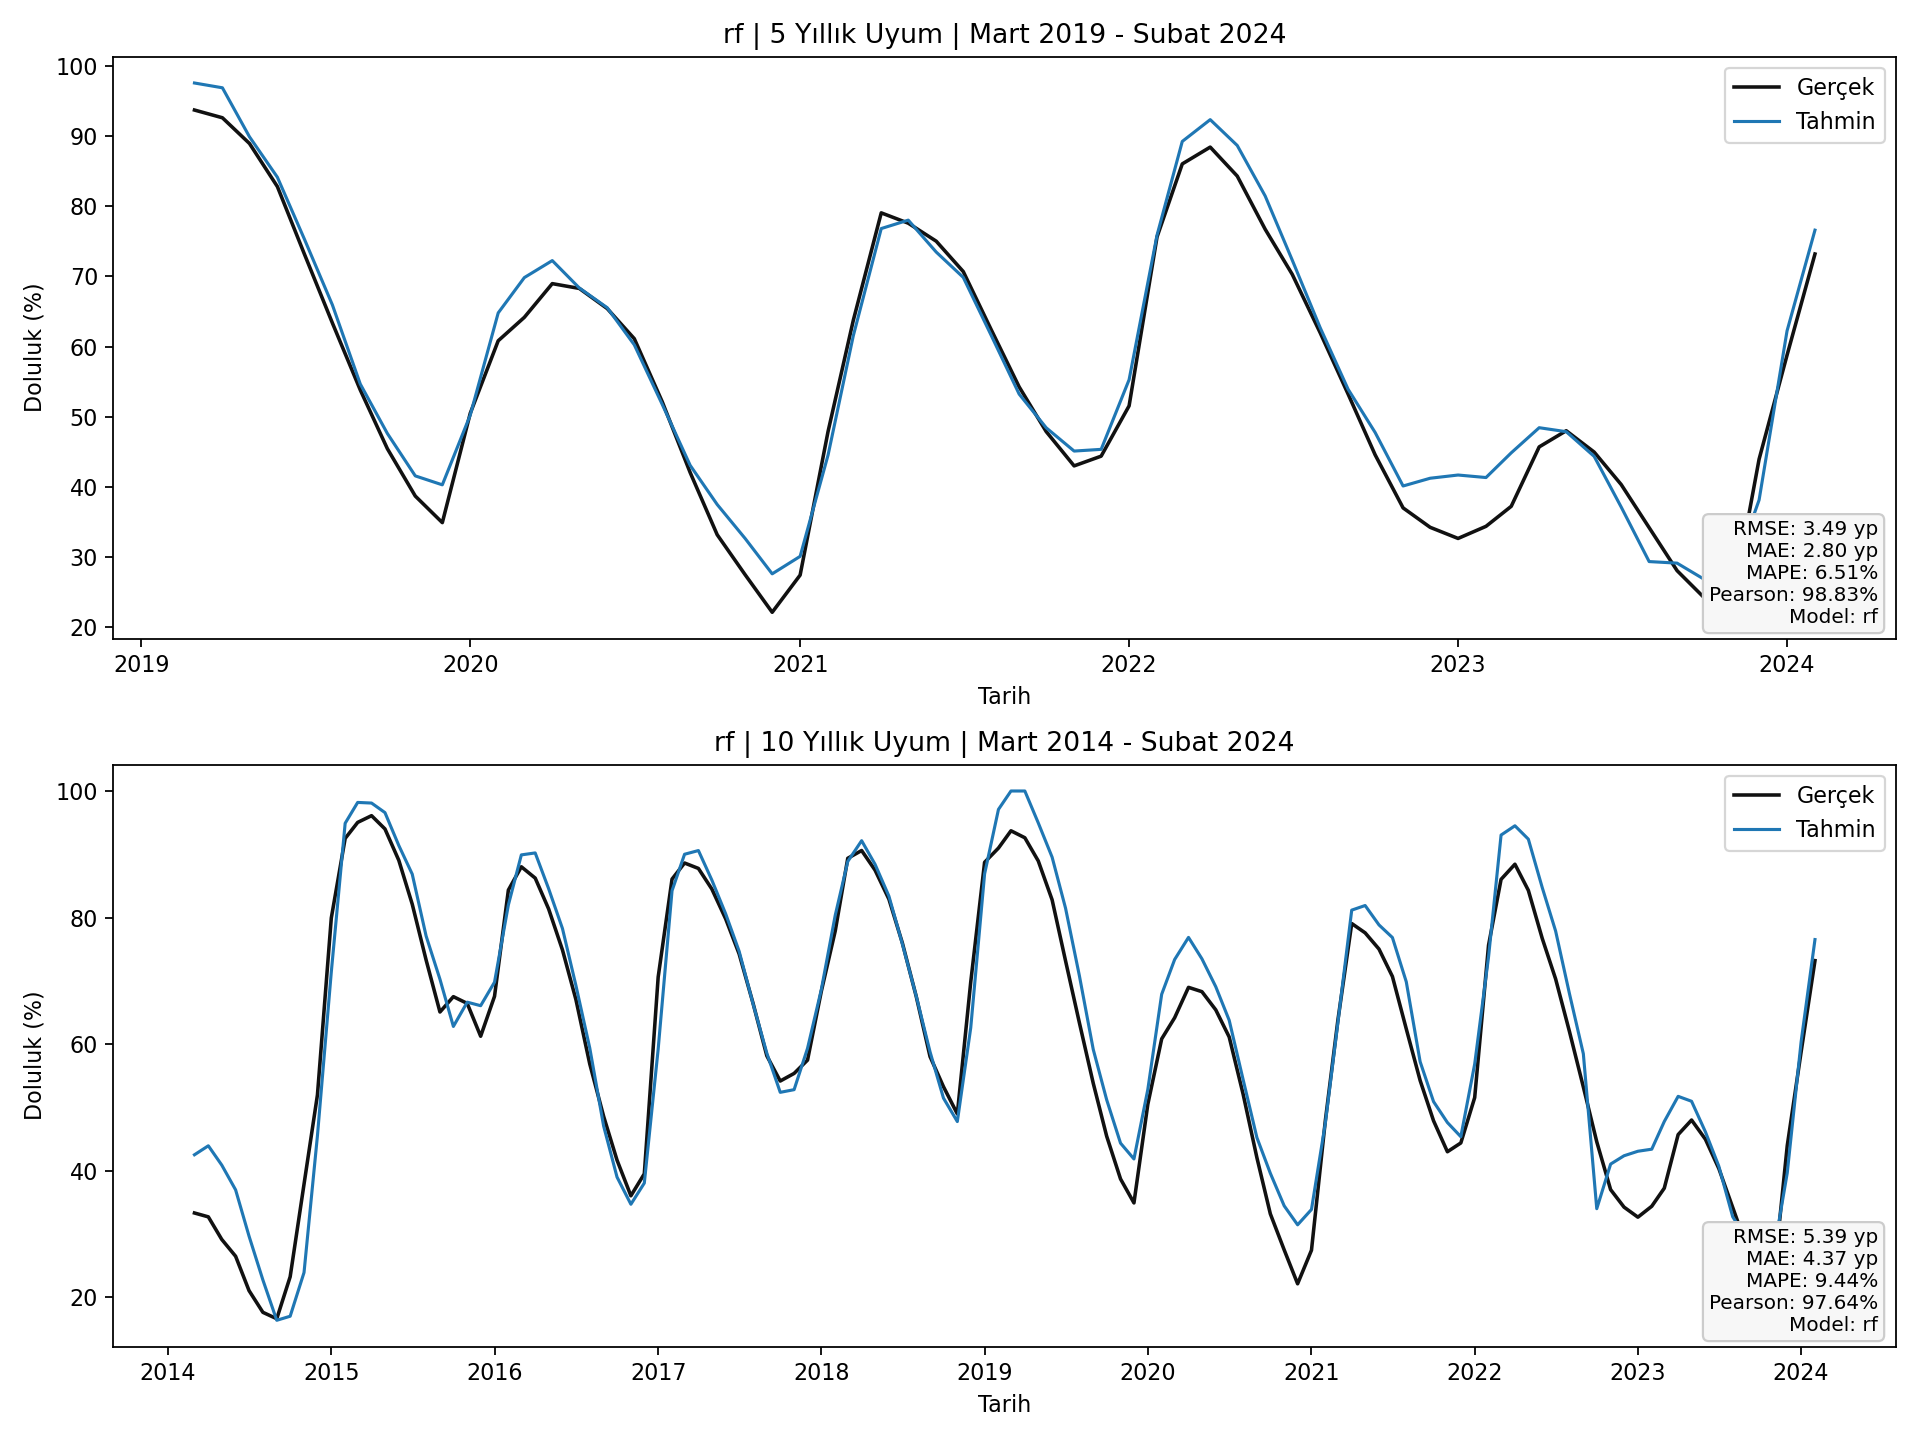
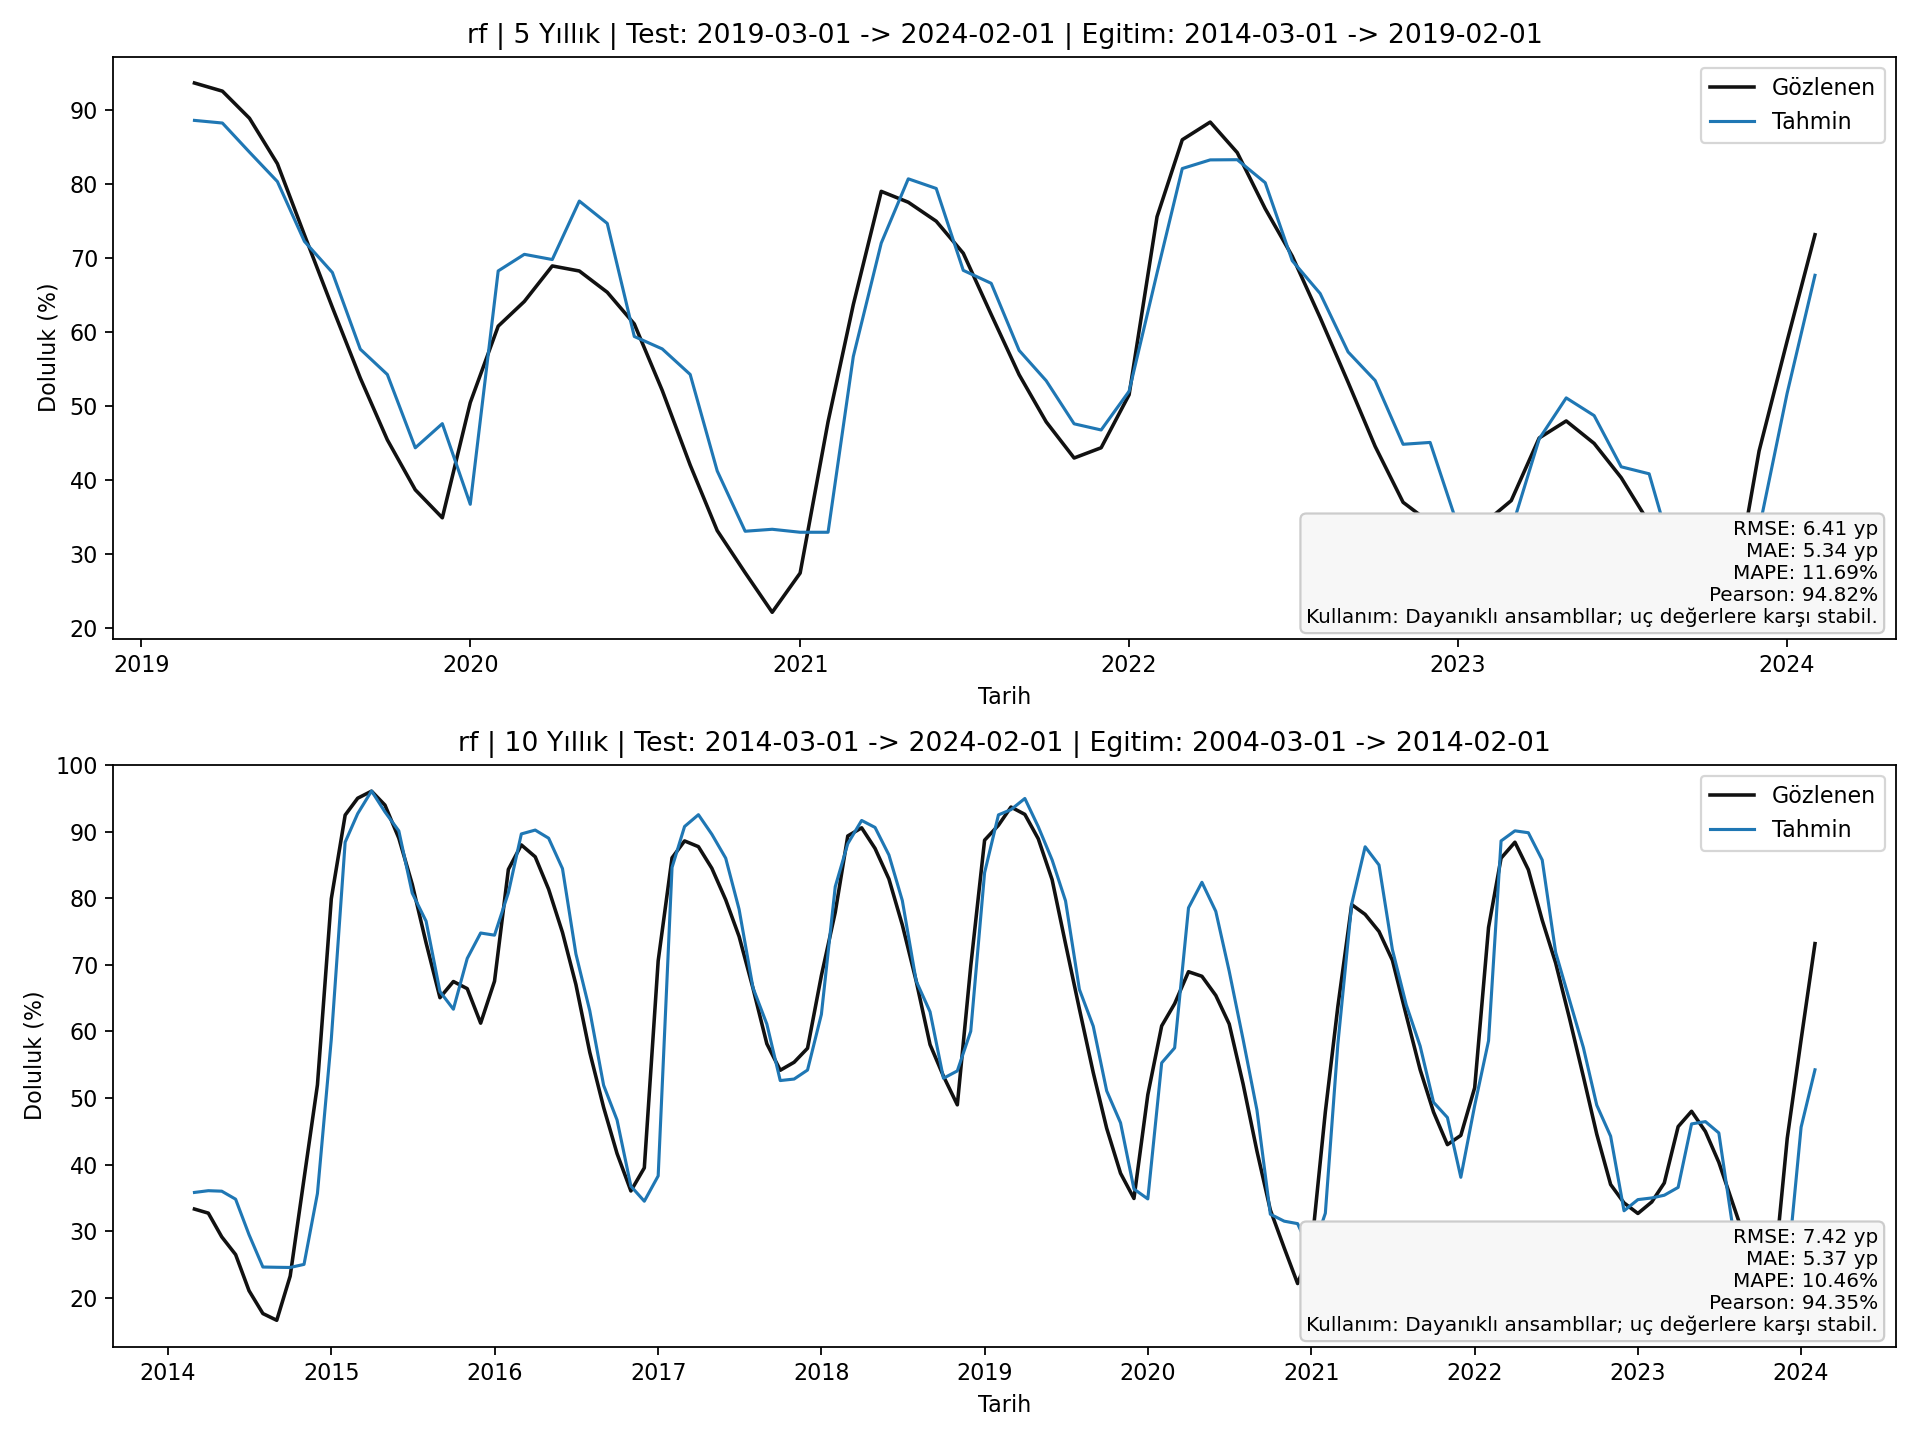
Fix 5Y/10Y Ridge backtest windows and refresh model card charts

diff --git a/baraj_web/index.html b/baraj_web/index.html
@@ -471,7 +471,7 @@
             <div class="panel-media">
               <img class="media-wide zoomable" src="assets/img/ridge_projection_2000_2040.png?v=20260326-9" alt="Ridge 2000-2040" />
               <div class="media-row">
-                <img class="media-small zoomable" src="assets/img/ridge_5y_10y.png?v=20260326-5" alt="Ridge 5y/10y karşılaştırma" />
+                <img class="media-small zoomable" src="assets/img/ridge_5y_10y.png?v=20260326-11" alt="Ridge 5y/10y karşılaştırma" />
                 <img class="media-small zoomable" src="assets/img/ridge_projection_zoom_2040.png?v=20260326-9" alt="Ridge 2024-2040" />
               </div>
             </div>
@@ -489,7 +489,7 @@
             <div class="panel-media">
               <img class="media-wide zoomable" src="assets/img/gbr_projection_2000_2040.png?v=20260326-9" alt="GBR 2000-2040" />
               <div class="media-row">
-                <img class="media-small zoomable" src="assets/img/gbr_5y_10y.png?v=20260326-5" alt="GBR 5y/10y karşılaştırma" />
+                <img class="media-small zoomable" src="assets/img/gbr_5y_10y.png?v=20260326-11" alt="GBR 5y/10y karşılaştırma" />
                 <img class="media-small zoomable" src="assets/img/gbr_projection_zoom_2040.png?v=20260326-9" alt="GBR 2024-2040" />
               </div>
             </div>
@@ -507,7 +507,7 @@
             <div class="panel-media">
               <img class="media-wide zoomable" src="assets/img/hgb_projection_2000_2040.png?v=20260326-9" alt="HGB 2000-2040" />
               <div class="media-row">
-                <img class="media-small zoomable" src="assets/img/hgb_5y_10y.png?v=20260326-5" alt="HGB 5y/10y karşılaştırma" />
+                <img class="media-small zoomable" src="assets/img/hgb_5y_10y.png?v=20260326-11" alt="HGB 5y/10y karşılaştırma" />
                 <img class="media-small zoomable" src="assets/img/hgb_projection_zoom_2040.png?v=20260326-9" alt="HGB 2024-2040" />
               </div>
             </div>
@@ -525,7 +525,7 @@
             <div class="panel-media">
               <img class="media-wide zoomable" src="assets/img/rf_projection_2000_2040.png?v=20260326-9" alt="RF 2000-2040" />
               <div class="media-row">
-                <img class="media-small zoomable" src="assets/img/rf_5y_10y.png?v=20260326-5" alt="RF 5y/10y karşılaştırma" />
+                <img class="media-small zoomable" src="assets/img/rf_5y_10y.png?v=20260326-11" alt="RF 5y/10y karşılaştırma" />
                 <img class="media-small zoomable" src="assets/img/rf_projection_zoom_2040.png?v=20260326-9" alt="RF 2024-2040" />
               </div>
             </div>
@@ -543,7 +543,7 @@
             <div class="panel-media">
               <img class="media-wide zoomable" src="assets/img/etr_projection_2000_2040.png?v=20260326-9" alt="ETR 2000-2040" />
               <div class="media-row">
-                <img class="media-small zoomable" src="assets/img/etr_5y_10y.png?v=20260326-5" alt="ETR 5y/10y karşılaştırma" />
+                <img class="media-small zoomable" src="assets/img/etr_5y_10y.png?v=20260326-11" alt="ETR 5y/10y karşılaştırma" />
                 <img class="media-small zoomable" src="assets/img/etr_projection_zoom_2040.png?v=20260326-9" alt="ETR 2024-2040" />
               </div>
             </div>

diff --git a/index.html b/index.html
@@ -471,7 +471,7 @@
             <div class="panel-media">
               <img class="media-wide zoomable" src="assets/img/ridge_projection_2000_2040.png?v=20260326-9" alt="Ridge 2000-2040" />
               <div class="media-row">
-                <img class="media-small zoomable" src="assets/img/ridge_5y_10y.png?v=20260326-5" alt="Ridge 5y/10y karşılaştırma" />
+                <img class="media-small zoomable" src="assets/img/ridge_5y_10y.png?v=20260326-11" alt="Ridge 5y/10y karşılaştırma" />
                 <img class="media-small zoomable" src="assets/img/ridge_projection_zoom_2040.png?v=20260326-9" alt="Ridge 2024-2040" />
               </div>
             </div>
@@ -489,7 +489,7 @@
             <div class="panel-media">
               <img class="media-wide zoomable" src="assets/img/gbr_projection_2000_2040.png?v=20260326-9" alt="GBR 2000-2040" />
               <div class="media-row">
-                <img class="media-small zoomable" src="assets/img/gbr_5y_10y.png?v=20260326-5" alt="GBR 5y/10y karşılaştırma" />
+                <img class="media-small zoomable" src="assets/img/gbr_5y_10y.png?v=20260326-11" alt="GBR 5y/10y karşılaştırma" />
                 <img class="media-small zoomable" src="assets/img/gbr_projection_zoom_2040.png?v=20260326-9" alt="GBR 2024-2040" />
               </div>
             </div>
@@ -507,7 +507,7 @@
             <div class="panel-media">
               <img class="media-wide zoomable" src="assets/img/hgb_projection_2000_2040.png?v=20260326-9" alt="HGB 2000-2040" />
               <div class="media-row">
-                <img class="media-small zoomable" src="assets/img/hgb_5y_10y.png?v=20260326-5" alt="HGB 5y/10y karşılaştırma" />
+                <img class="media-small zoomable" src="assets/img/hgb_5y_10y.png?v=20260326-11" alt="HGB 5y/10y karşılaştırma" />
                 <img class="media-small zoomable" src="assets/img/hgb_projection_zoom_2040.png?v=20260326-9" alt="HGB 2024-2040" />
               </div>
             </div>
@@ -525,7 +525,7 @@
             <div class="panel-media">
               <img class="media-wide zoomable" src="assets/img/rf_projection_2000_2040.png?v=20260326-9" alt="RF 2000-2040" />
               <div class="media-row">
-                <img class="media-small zoomable" src="assets/img/rf_5y_10y.png?v=20260326-5" alt="RF 5y/10y karşılaştırma" />
+                <img class="media-small zoomable" src="assets/img/rf_5y_10y.png?v=20260326-11" alt="RF 5y/10y karşılaştırma" />
                 <img class="media-small zoomable" src="assets/img/rf_projection_zoom_2040.png?v=20260326-9" alt="RF 2024-2040" />
               </div>
             </div>
@@ -543,7 +543,7 @@
             <div class="panel-media">
               <img class="media-wide zoomable" src="assets/img/etr_projection_2000_2040.png?v=20260326-9" alt="ETR 2000-2040" />
               <div class="media-row">
-                <img class="media-small zoomable" src="assets/img/etr_5y_10y.png?v=20260326-5" alt="ETR 5y/10y karşılaştırma" />
+                <img class="media-small zoomable" src="assets/img/etr_5y_10y.png?v=20260326-11" alt="ETR 5y/10y karşılaştırma" />
                 <img class="media-small zoomable" src="assets/img/etr_projection_zoom_2040.png?v=20260326-9" alt="ETR 2024-2040" />
               </div>
             </div>

diff --git a/scripts/build_model_cards_5y_10y.py b/scripts/build_model_cards_5y_10y.py
@@ -169,8 +169,8 @@ def build_features(df: pd.DataFrame, drop_cols: list[str]) -> pd.DataFrame:
     return out
 
 
-def split_window(df, train_end, test_start, test_end):
-    train = df[df["date"] <= train_end].copy()
+def split_window(df, train_start, train_end, test_start, test_end):
+    train = df[(df["date"] >= train_start) & (df["date"] <= train_end)].copy()
     test = df[(df["date"] >= test_start) & (df["date"] <= test_end)].copy()
     return train, test
 
@@ -257,22 +257,26 @@ def main():
     test5_start = (end_date - pd.DateOffset(months=59)).normalize()
     test5_end = end_date
     train5_end = (test5_start - pd.DateOffset(months=1)).normalize()
+    train5_start = (train5_end - pd.DateOffset(months=59)).normalize()
 
     test10_start = (end_date - pd.DateOffset(months=119)).normalize()
     test10_end = end_date
     train10_end = (test10_start - pd.DateOffset(months=1)).normalize()
+    train10_start = (train10_end - pd.DateOffset(months=119)).normalize()
 
     windows = {
-        "5y": (train5_end, test5_start, test5_end),
-        "10y": (train10_end, test10_start, test10_end),
+        "5y": (train5_start, train5_end, test5_start, test5_end),
+        "10y": (train10_start, train10_end, test10_start, test10_end),
     }
 
     models = model_catalog()
     rows = []
     per_model = {name: {} for name in models.keys()}
 
-    for wlabel, (train_end, test_start, test_end) in windows.items():
-        train, test = split_window(feat, train_end, test_start, test_end)
+    for wlabel, (train_start, train_end, test_start, test_end) in windows.items():
+        train, test = split_window(feat, train_start, train_end, test_start, test_end)
+        if train.empty or test.empty:
+            continue
         X_train = train.drop(columns=["date", "fill_pct"]).values
         y_train = train["fill_pct"].values
         X_test = test.drop(columns=["date", "fill_pct"]).values
@@ -282,10 +286,15 @@ def main():
             model.fit(X_train, y_train)
             y_pred = model.predict(X_test)
             metrics = eval_metrics(y_test, y_pred)
-            rows.append({"model": name, "window": f"{test_start.date()} -> {test_end.date()}", **metrics})
+            rows.append({
+                "model": name,
+                "train_window": f"{train_start.date()} -> {train_end.date()}",
+                "window": f"{test_start.date()} -> {test_end.date()}",
+                **metrics,
+            })
 
             per_model[name][wlabel] = (
-                f"{test_start.date()} -> {test_end.date()}",
+                f"Test: {test_start.date()} -> {test_end.date()} | Egitim: {train_start.date()} -> {train_end.date()}",
                 test["date"].values,
                 y_test,
                 y_pred,
